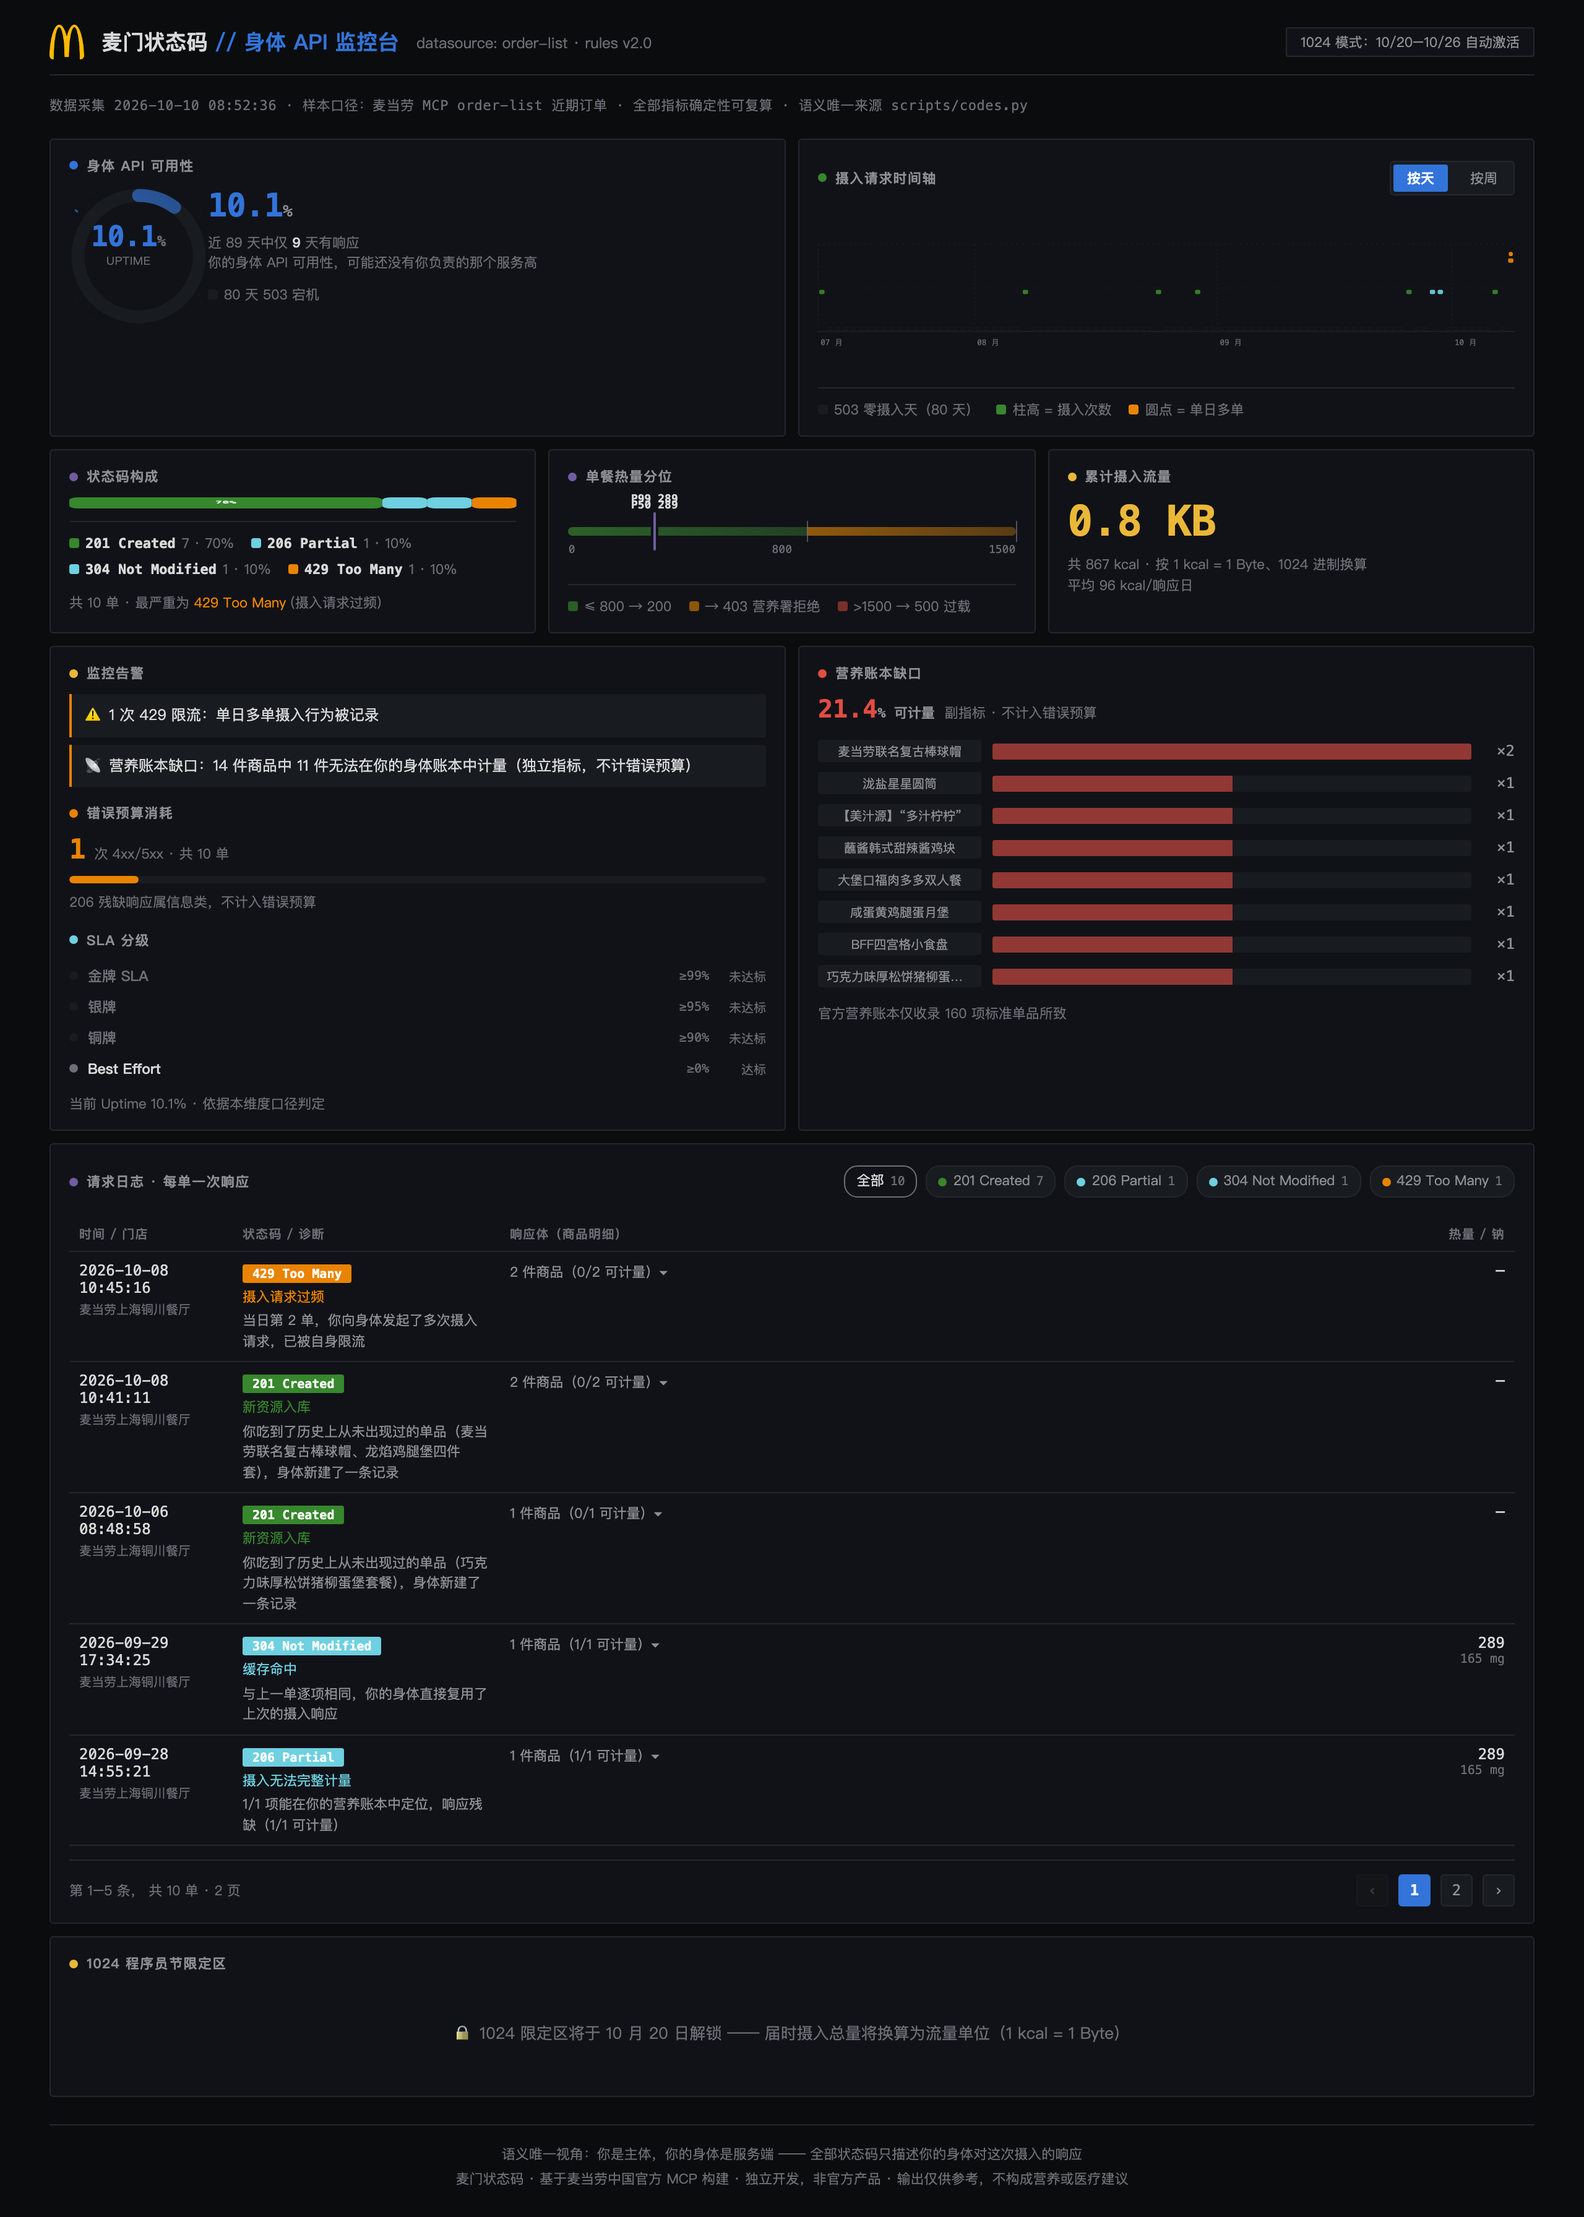
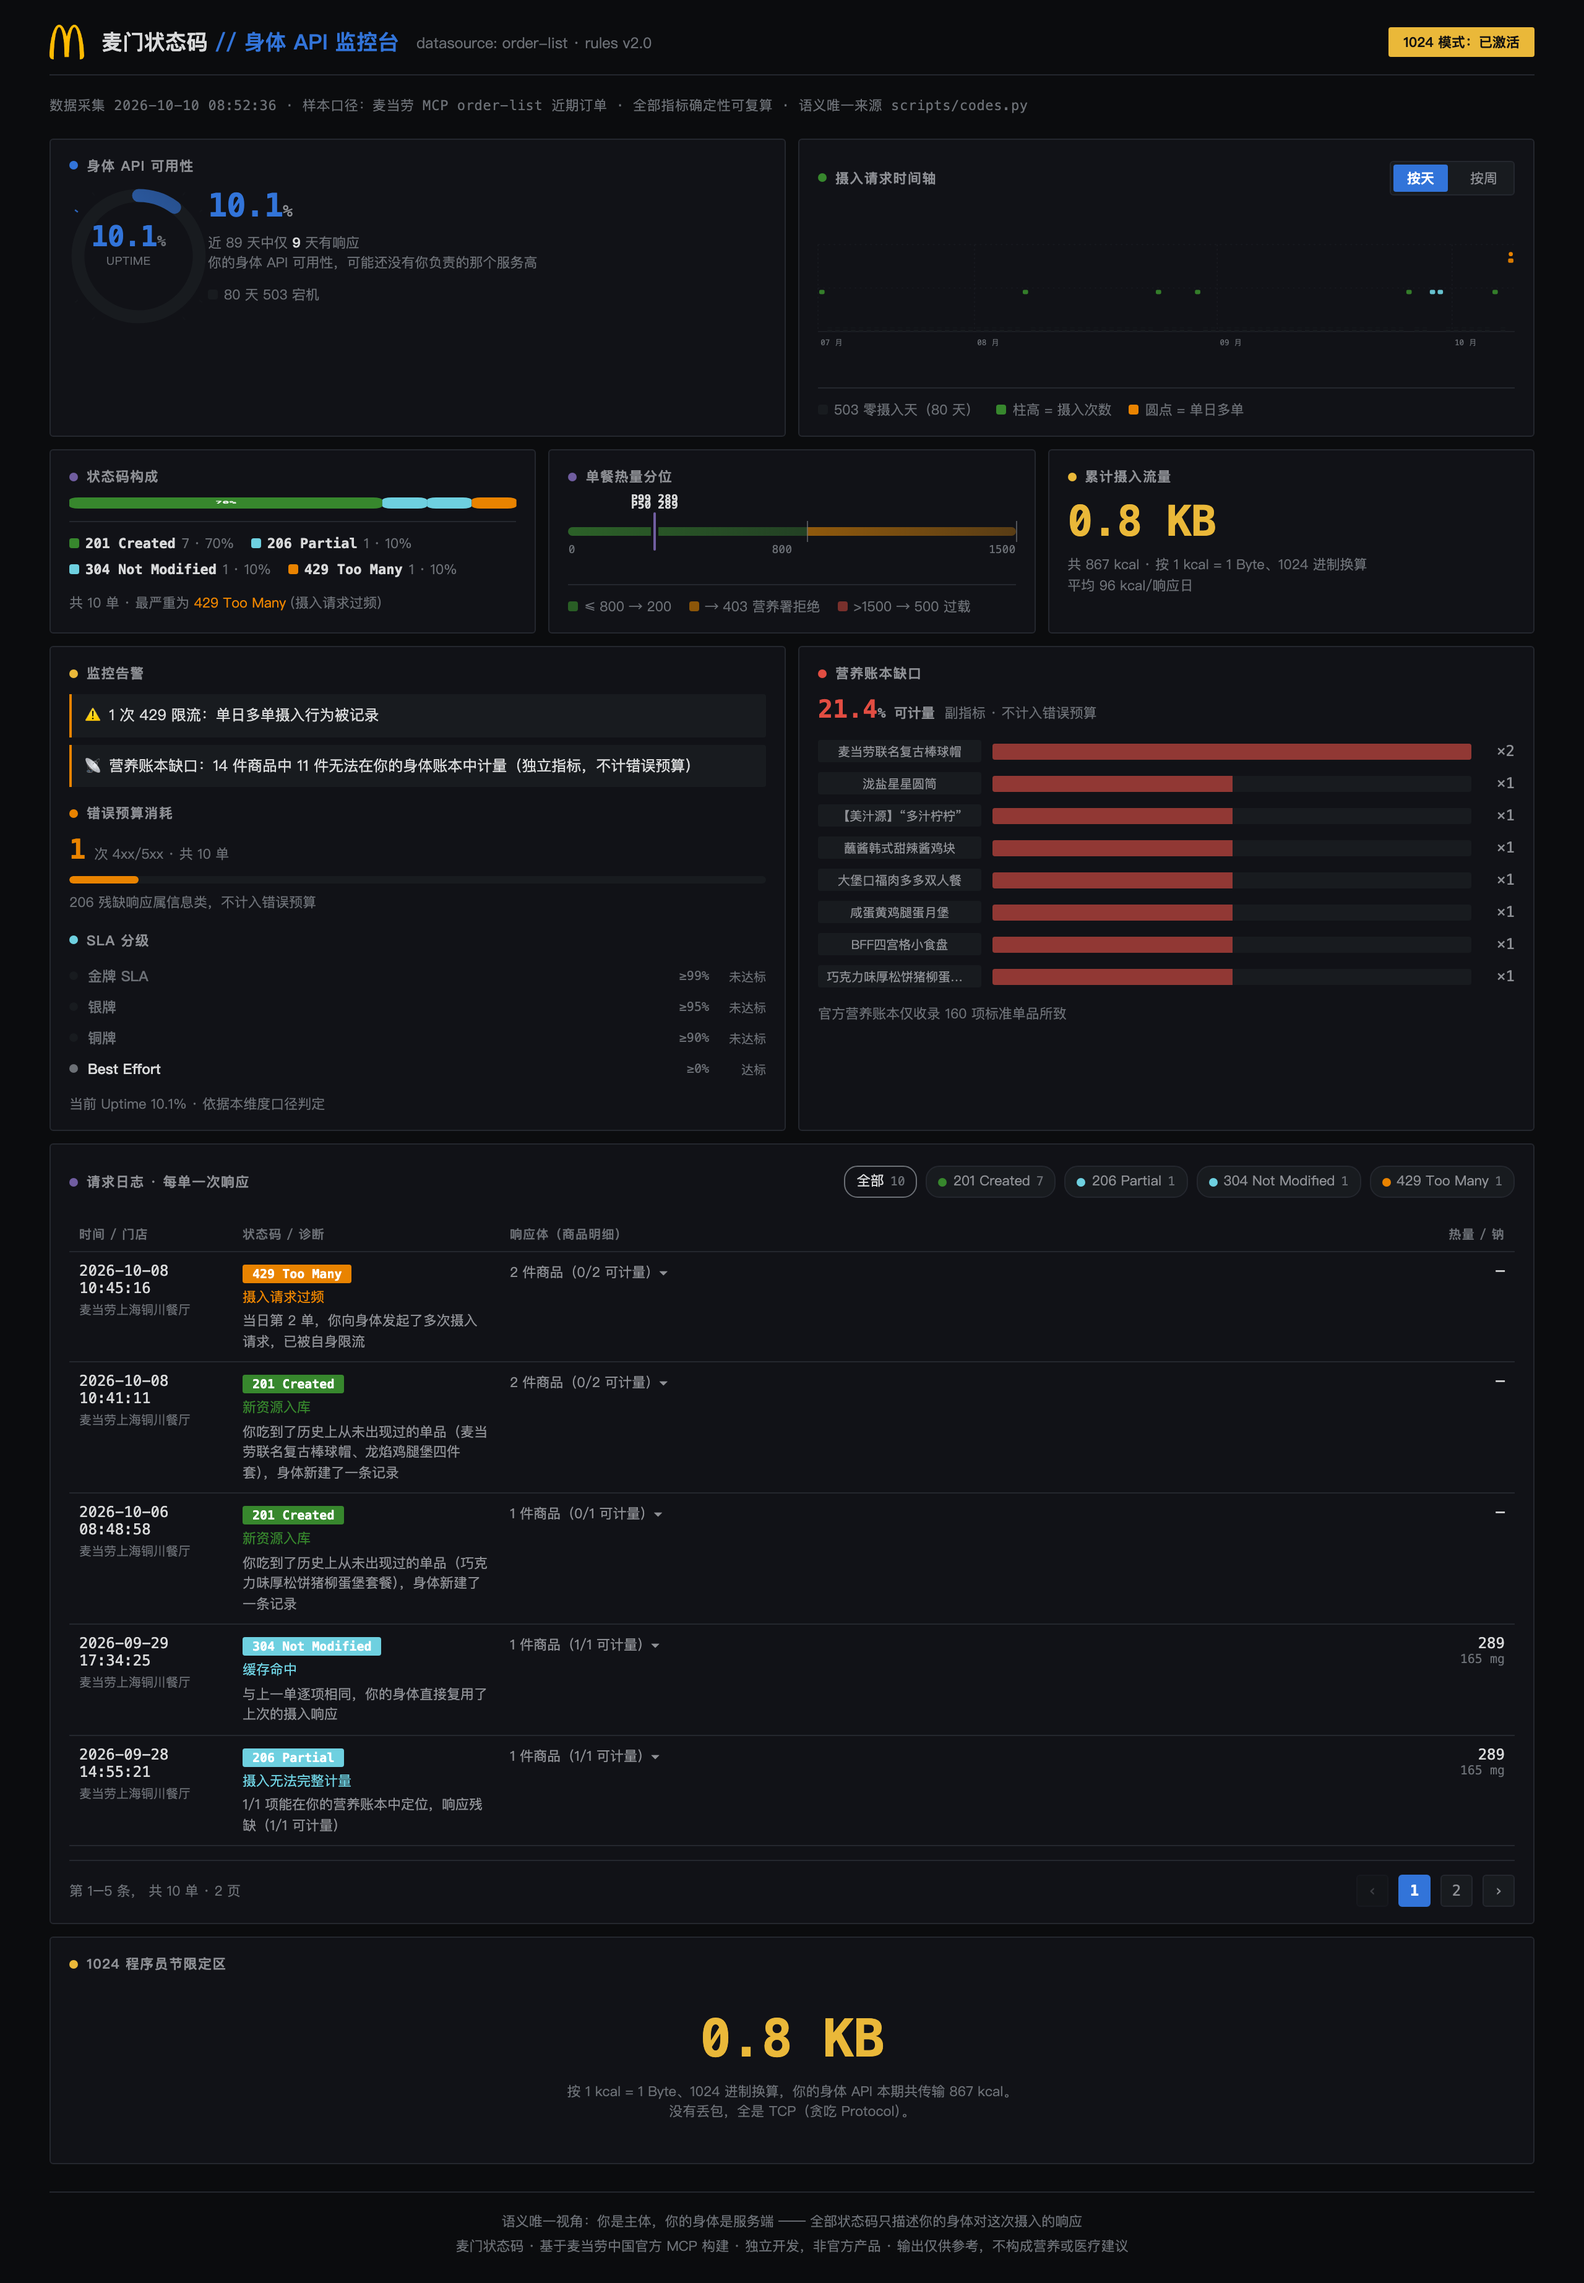
docs: 补充 1024 限定模式截图与周维度配图

diff --git a/README.md b/README.md
@@ -14,7 +14,11 @@
 
 ![周维度监控面板](docs/screenshot-week.png)
 
-*（切到按周维度：14 周里 6 周有响应，Uptime 42.9% —— 同一份数据的另一种观察粒度）*
+*（切到按周维度：14 周里6 周有响应，Uptime 42.9% —— 同一份数据的另一种观察粒度）*
+
+![1024 限定模式](docs/screenshot-1024.png)
+
+*（10/20–10/26 活动窗口自动解锁：把摄入总量按 1 kcal = 1 Byte、1024 进制换算为流量单位）*
 
 ---
 
